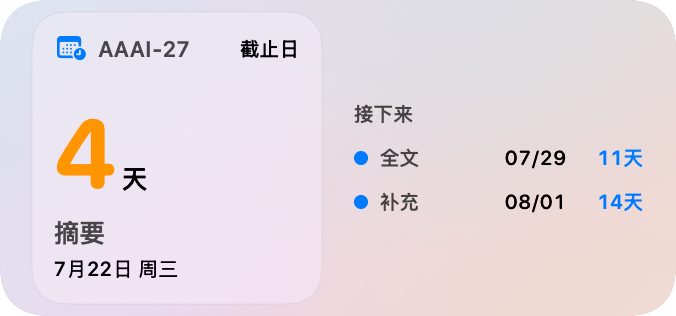
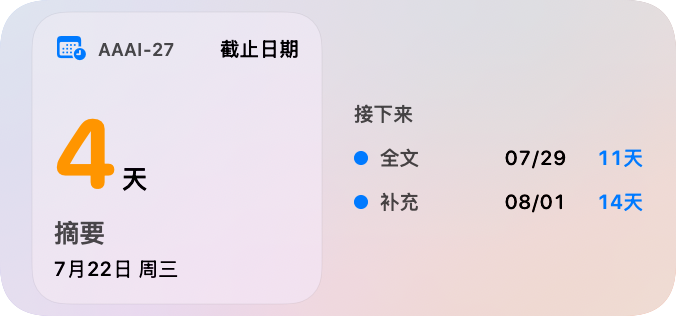
Fix AI Deadline header label

Changed region(s): [[0.3107, 0.1139, 0.466, 0.1994], [0.1243, 0.1139, 0.2796, 0.1994]]

diff --git a/Deadline/DeadlineWidget.swift b/Deadline/DeadlineWidget.swift
@@ -146,15 +146,19 @@ private struct DeadlineHeader: View {
                 .foregroundStyle(hasError ? .red : .blue)
             Text(name)
                 .font(.subheadline.weight(.semibold))
-            Spacer()
+                .lineLimit(1)
+                .minimumScaleFactor(0.8)
+            Spacer(minLength: 8)
             if hasError {
                 Image(systemName: "exclamationmark.triangle.fill")
                     .font(.caption)
                     .foregroundStyle(.red)
             } else {
-                Text("截止日")
+                Text("截止日期")
                     .font(.caption2.weight(.medium))
                     .foregroundStyle(.secondary)
+                    .fixedSize(horizontal: true, vertical: false)
+                    .layoutPriority(1)
             }
         }
     }

diff --git a/README.md b/README.md
@@ -7,6 +7,15 @@ Two open-source macOS WidgetKit components built with SwiftUI:
 
 The extensions are read-only. They render local redacted JSON snapshots and never receive portal credentials, submit jobs, cancel jobs, or contact an HPC service directly.
 
+## Related Codex skills
+
+The widget is the read-only presentation layer for these separately maintained workflows:
+
+- [BJTU HPC skill](https://github.com/Iranb/bjtu-hpc-codex-skill) — portal status, redacted snapshots, dashboard integration, and native widget maintenance.
+- [BJTU HPC Submit skill](https://github.com/Iranb/bjtu-hpc-submit-skill) — guarded authentication, upload, Slurm preflight, submission, and monitoring workflows.
+
+Neither skill is embedded in the widget extension. Credentials and job mutations remain outside the WidgetKit process.
+
 ## Screenshots
 
 The committed screenshots use synthetic account names and project data.
